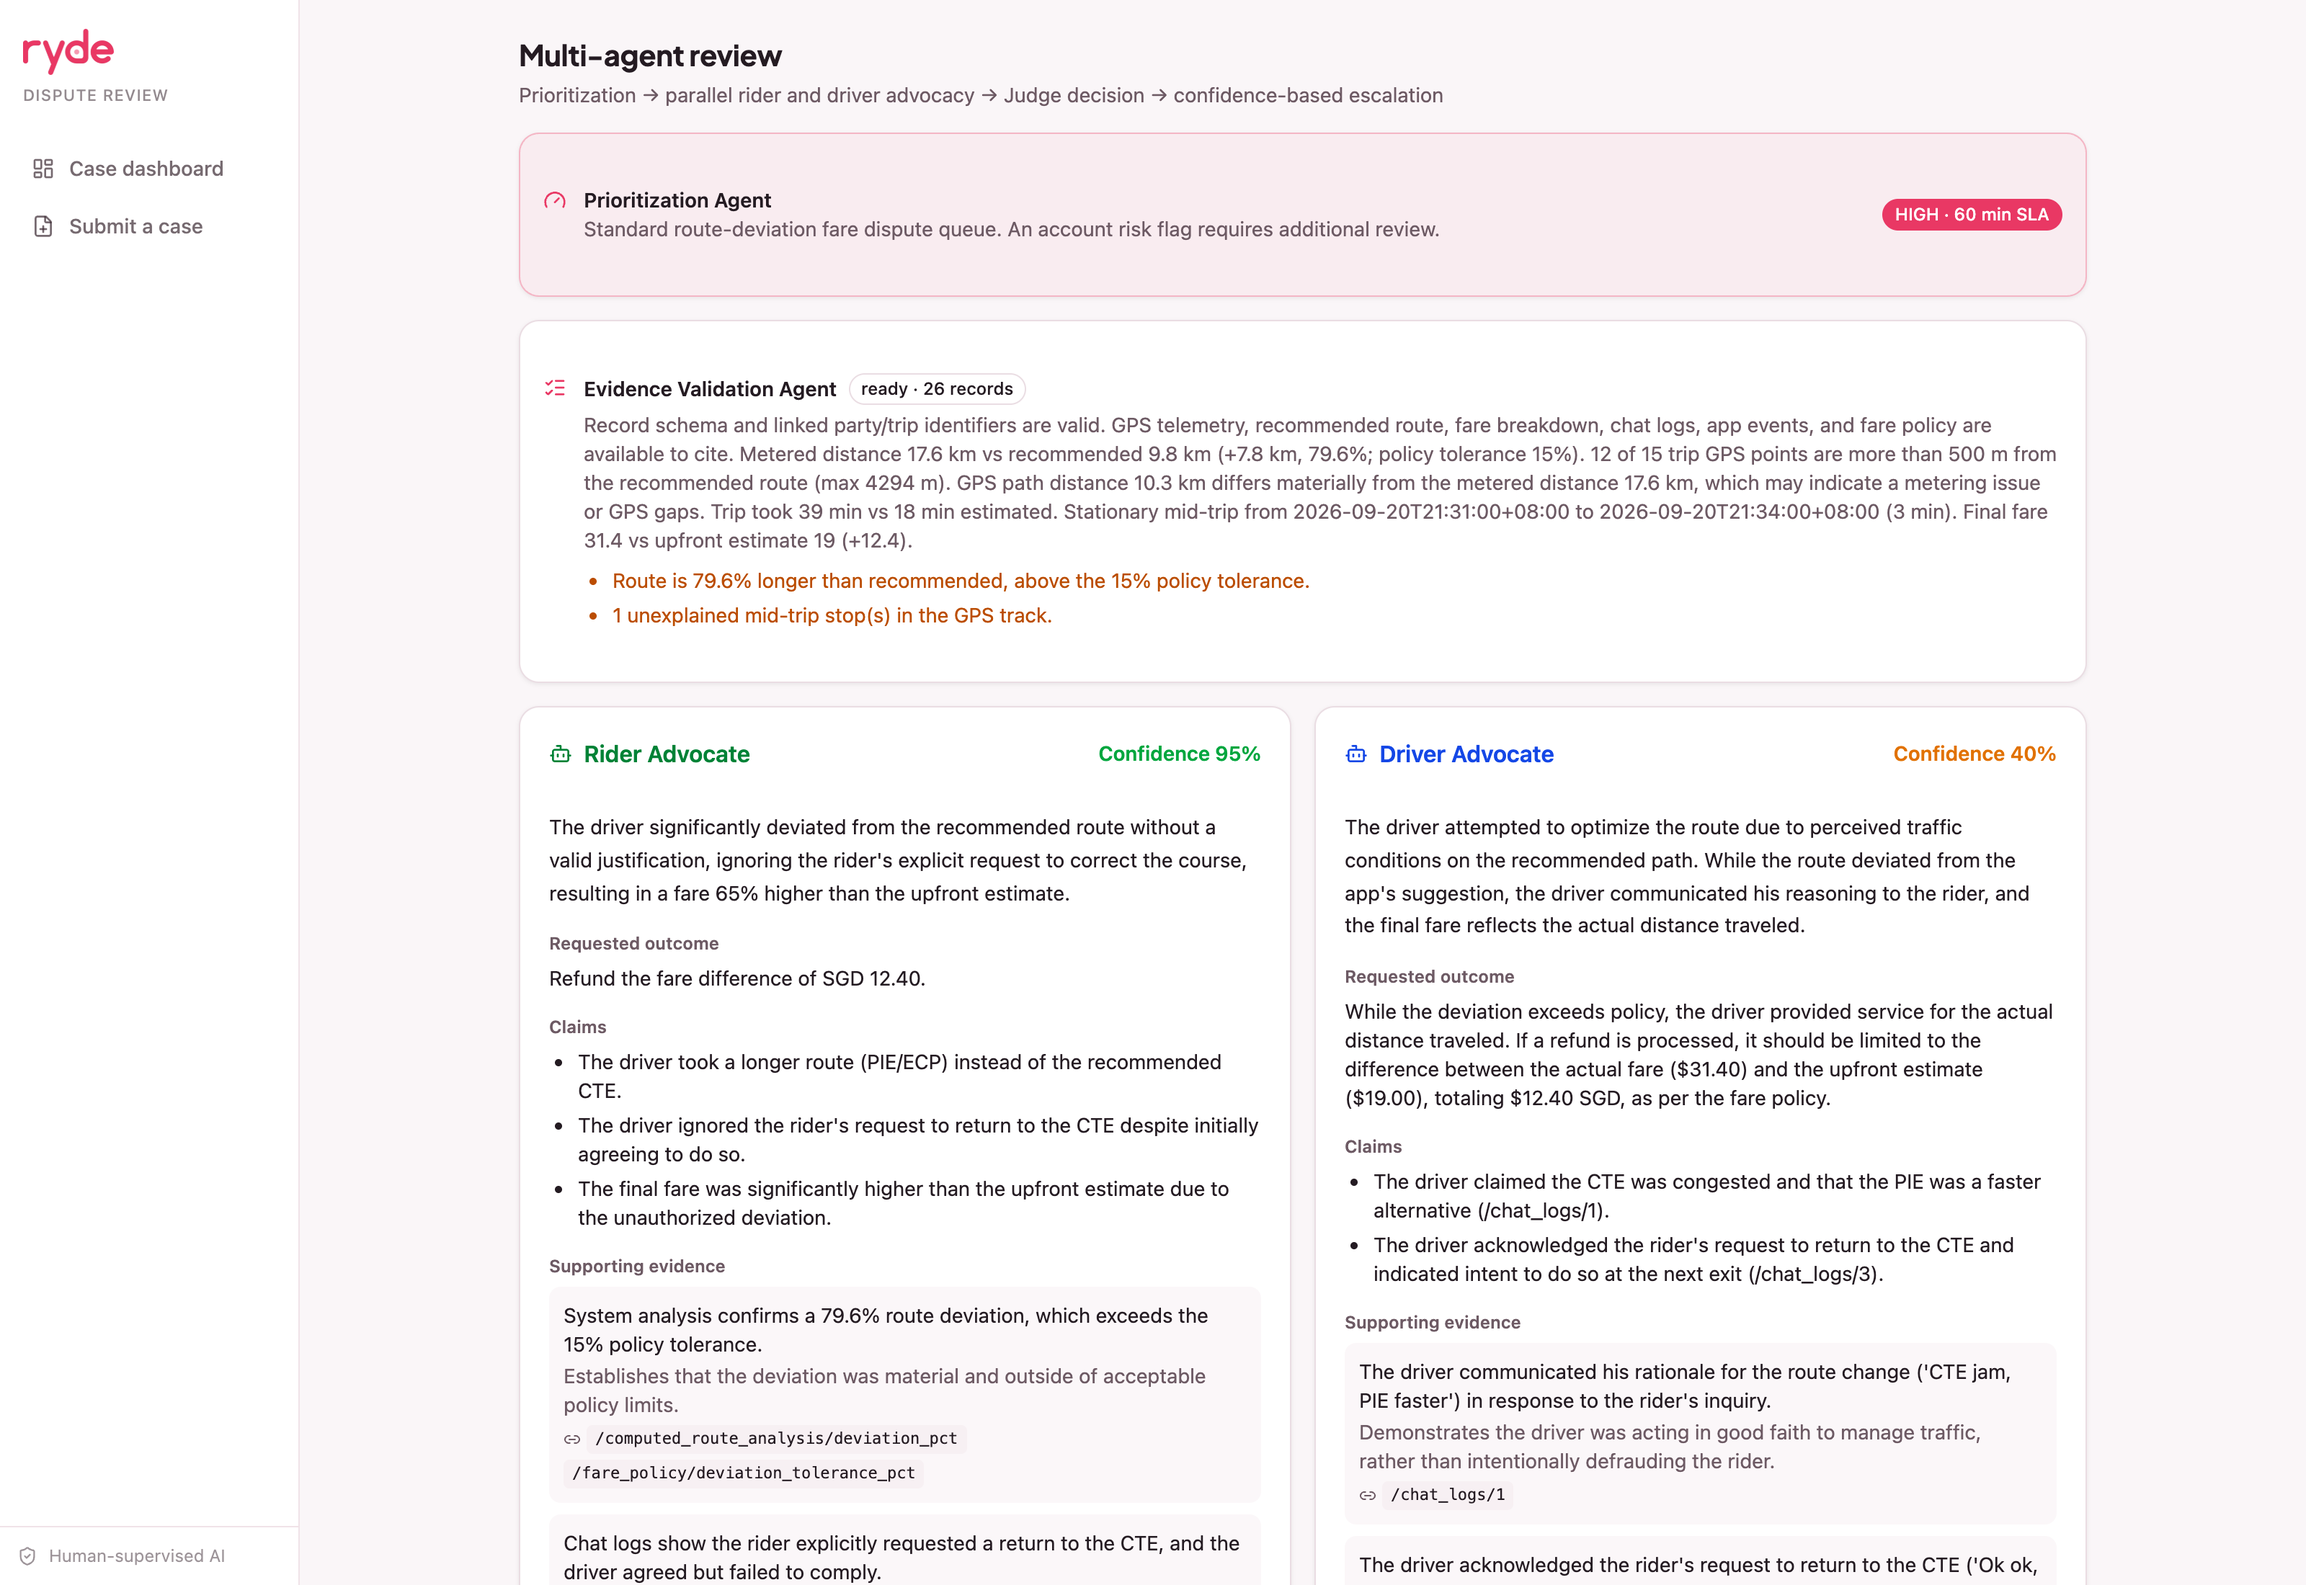
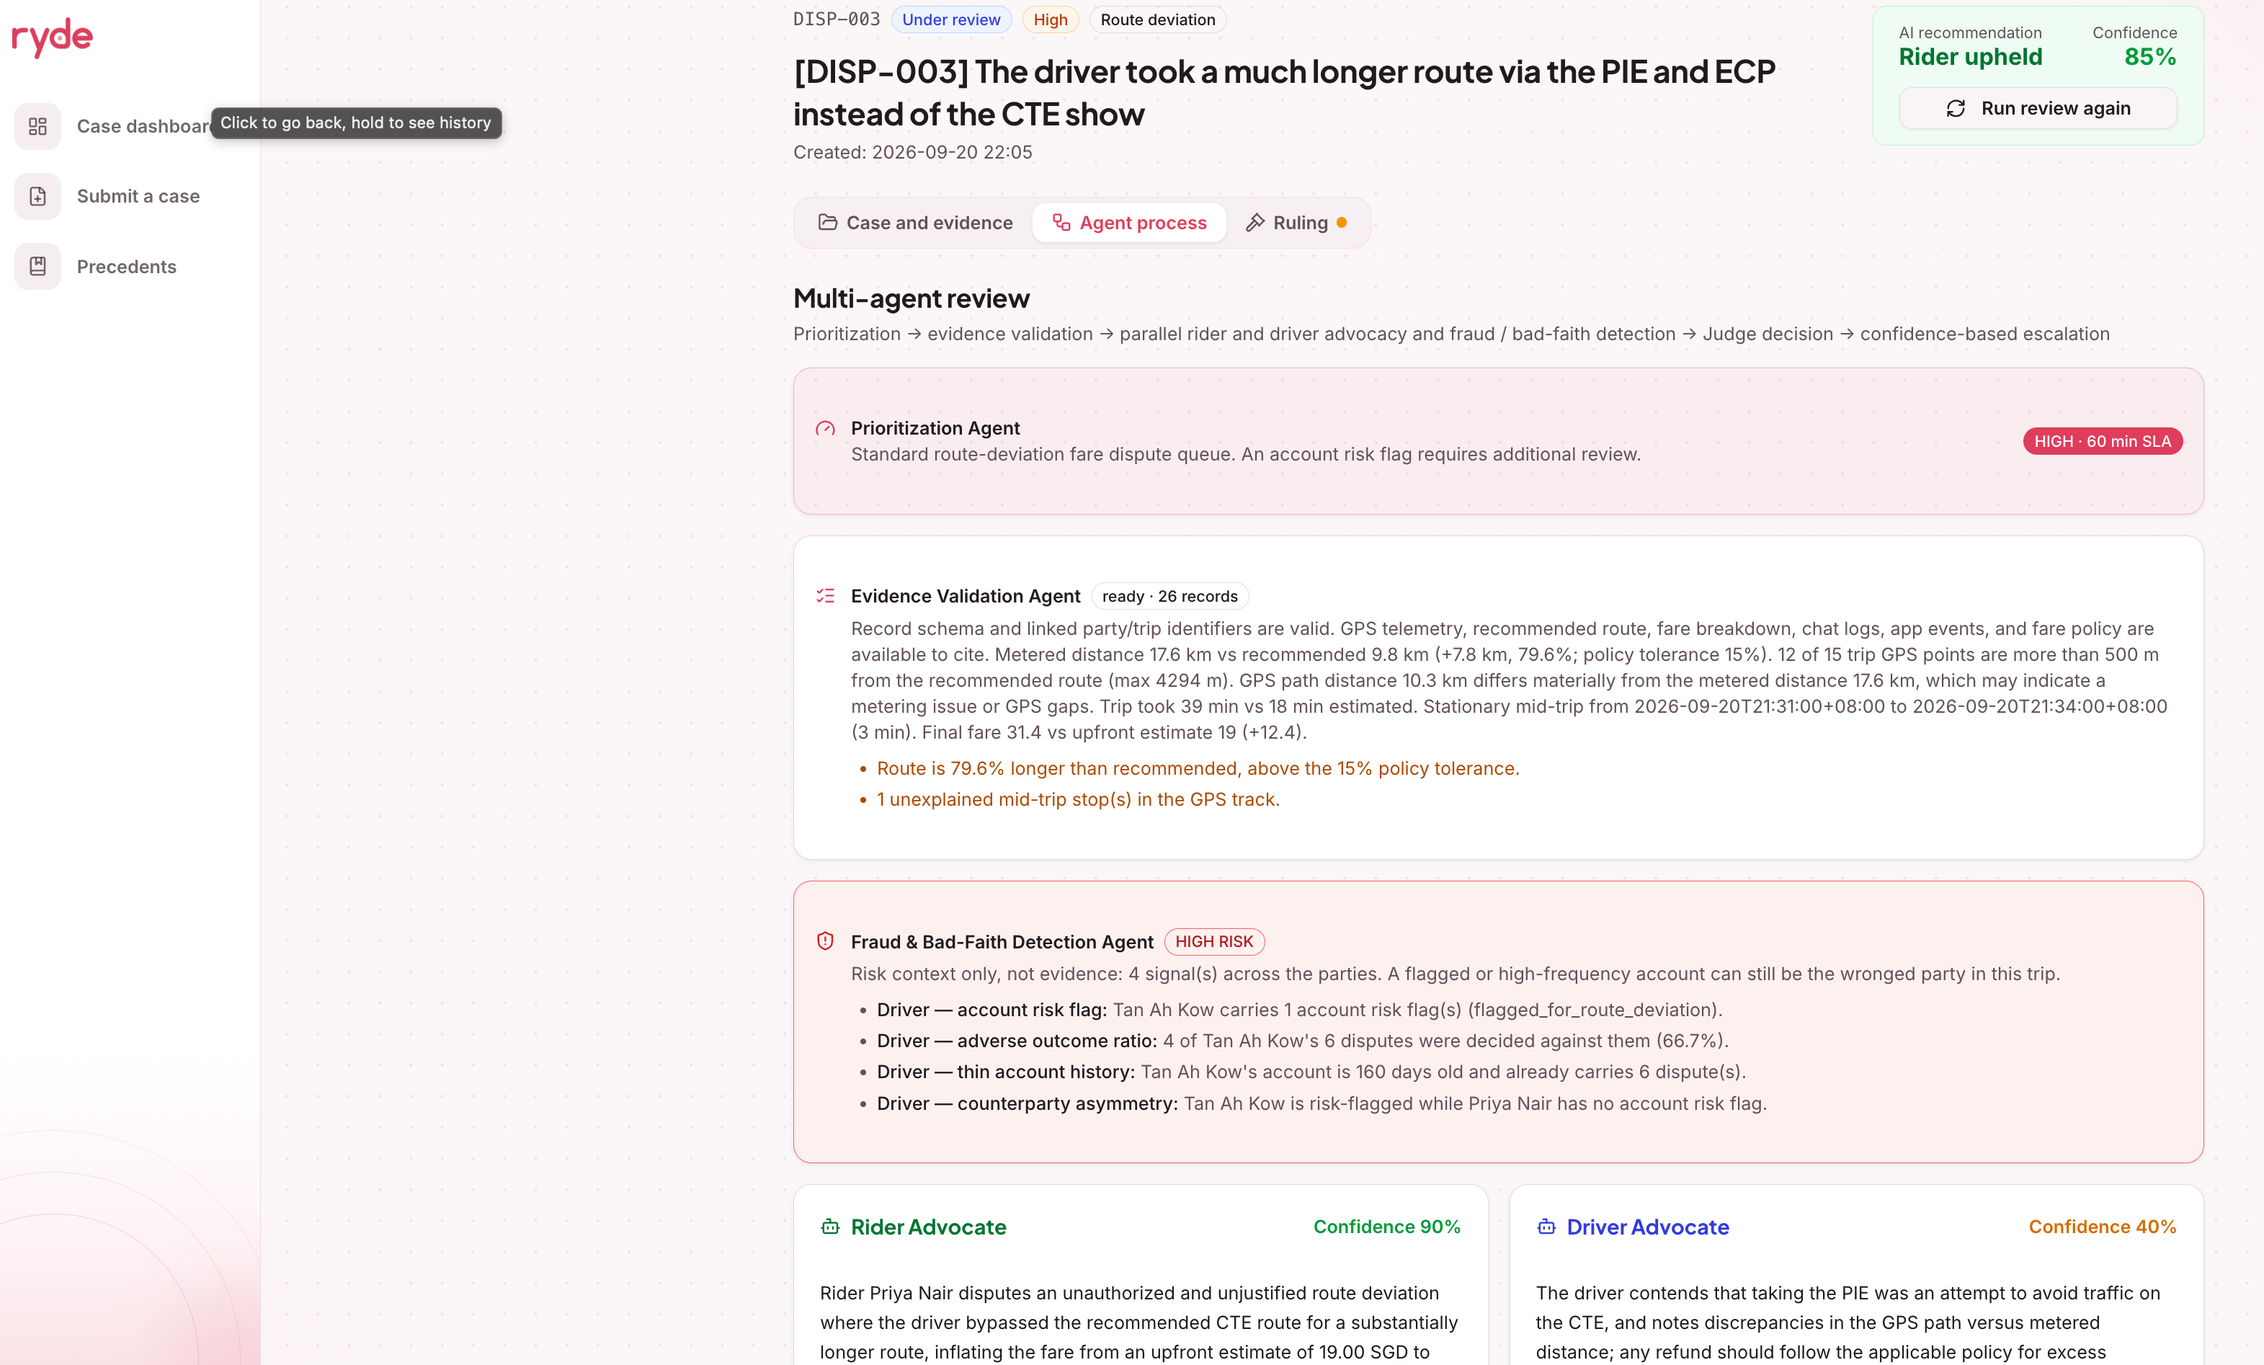
Proof: WorkBuddy chat as PNG screenshots; correct the DISP-003 demo
- Export the nine pages of the WorkBuddy conversation capture as
  proof/screenshots/03-workbuddy-chat-page-1..9.png, so the chat
  screenshots requirement (at least 3) is met with images
- Retake the DISP-003 screenshots under Policy v2.1 (escalated, refund
  held as a draft)
- SUBMISSION.md: Demo 1 uses the screenshot run (85%, S$6.66 excess-
  distance fare, as Policy v2.1 requires) and notes a run that applied
  the dataset's older refund rule; credit WorkBuddy with building the
  first version of the app; fix the PDF path

diff --git a/report/SUBMISSION.md b/report/SUBMISSION.md
@@ -257,15 +257,15 @@ All claims below are supported by the repository or handbook. No results are inv
 
 5. **Fraud & Bad-Faith Detection Agent** — Rates the driver's risk **high** (account risk flag, a high share of past disputes decided against the driver, a short account history with several disputes, and only the driver is risk-flagged). The Judge receives these as context only.
 
-6. **Judge (LLM)** — Both advocates produced validated LLM output, so the Judge runs. In our test run on 15 October 2026 it answered the route-deviation checklist:
+6. **Judge (LLM)** — Both advocates produced validated LLM output, so the Judge runs. In the run shown in screenshots `04`–`06` (15 October 2026) it answered the route-deviation checklist:
    - C1: Actual vs. recommended route — 17.6 km vs 9.8 km, 7.8 km excess.
    - C2: Whether traffic or a road closure justifies the deviation — app events record no traffic incident on the CTE (**conflict** with the driver's claim).
    - C3: Whether the driver told the rider before or at the deviation — no; the rider raised it.
    - C4: The 1 km refund tolerance and the 2 km human-review threshold — 7.8 km exceeds both.
-   - C5: Refundable excess-distance fare — S$31.40 charged vs S$19.00 binding upfront estimate.
+   - C5: Refundable excess-distance fare — Policy v2.1 refunds the fare for the excess distance, not the whole difference from the S$19.00 estimate.
    - C6–C7: Statement-vs-record conflicts (the driver's traffic claim vs. platform logs — **conflict**) and timestamp conflicts (none).
 
-   The Judge ruled for the rider at **95% confidence** with a **partial refund of S$12.40** (S$31.40 − S$19.00), within the disputed charge. Party notices are generated for both rider and driver in plain language.
+   The Judge upheld the rider at **85% confidence** with a **partial refund of S$6.66**: the excess-distance fare under Policy v2.1 (7.8 km excess ÷ 17.6 km metered × S$15.04 distance fare), within the disputed charge. Party notices are generated for both rider and driver in plain language. In another run the same day the Judge instead refunded the full S$12.40 difference from the upfront estimate, following the dataset's older fare policy rather than Policy v2.1; the reviewer sees the calculation in the resolution and can correct it.
 
 7. **Escalation Agent** — The 7.8 km deviation exceeds Policy v2.1's 2 km human-review threshold, so the case is **escalated to a human reviewer** however confident the Judge is (`workflowStatus = human_intervention_required`, `status = under_review`). The party notices are held as drafts until the reviewer decides.
 
@@ -321,7 +321,9 @@ The running system uses **Google Gemini** (free tier: `gemini-3.8-flash` → `ge
 
 ### WorkBuddy / CodeBuddy usage
 
-Per our WorkBuddy session plan, WorkBuddy/CodeBuddy was used for:
+The project started in **WorkBuddy**: asked to set up an agent that reviews driver–passenger disputes, WorkBuddy AI built the first version of the app (dispute dashboard, case submission form, AI review, case detail page; React 19, Express, Zod, TanStack Query and shadcn/ui) on Tencent Cloud Studio. That conversation is in the WorkBuddy page capture listed below, and the generated app is the starting point of the repository.
+
+Per our WorkBuddy session plan, WorkBuddy/CodeBuddy was then used for:
 
 1. **Code review** of the agent code (route-analysis.ts, judge.ts, dataset.ts) and frontend (AgentReview.tsx) — checking for bugs, edge cases, and running backend tests. This resulted in commit `7997e7e` ("Handle edge cases in dispute agents and store from CodeBuddy review"), which refined route-analysis, judge and dataset handling, hardened store logic, surfaced additional review details in the frontend, updated docs, and added the WorkBuddy session proof.
 2. **Localization** — rewriting seed cases from Chinese/Didi to English/Singapore Ryde cases with SGD fares, and translating `docs/product/features.md` to English.
@@ -331,8 +333,9 @@ Per our WorkBuddy session plan, WorkBuddy/CodeBuddy was used for:
 6. **Stretch goal** — adding the Fraud & Bad-Faith Detection agent (commit `5a17a53`).
 
 Proof of usage is collected in `proof/`:
-- `screenshots/screencapture-workbuddy-ai-app-task-2100073428441546752-2026-10-14-10_57_47.pdf` — screenshot of a WorkBuddy session
+- `screencapture-workbuddy-ai-app-task-2100073428441546752-2026-10-14-10_57_47.pdf` — 9-page capture of the WorkBuddy conversation that built the first version of the app
 - `screenshots/01-codebuddy-write-report.png`, `screenshots/02-codebuddy-fix-report.png` — CodeBuddy sessions
+- `screenshots/03-workbuddy-chat-page-1.png` to `-9.png` — the WorkBuddy conversation above, one image per page (it shows WorkBuddy building the app and deploying it to Cloud Studio)
 - `Review the recent changes in dispute-review-agent_backend_src_modules_dispute_ag_20261014115706.json` — exported chat history of the code review session
 
 ### Git history highlights
@@ -425,7 +428,7 @@ Items marked **TO ADD** depend on teammates or on final screenshots and are inte
 | Source code | Done | GitHub repository, `main` branch |
 | Which tool wrote the core agents | Done: WorkBuddy and CodeBuddy, assisted by GPT, Gemini, Codex and Claude (as stated by the team) | Section 7 |
 | CodeBuddy / WorkBuddy conversation history | Done: exported CodeBuddy chat (code-review session) | `proof/Review the recent changes in …json` |
-| At least 3 chat screenshots from CodeBuddy / WorkBuddy | Done: two CodeBuddy screenshots and one WorkBuddy page capture (PDF) | `proof/screenshots/` |
-| Application screenshots | Done, but taken before Policy v2.1 and the fraud agent (DISP-003 then resolved automatically; it now goes to a human): DISP-003 (S$12.40 refund) and DISP-002 (no-show) each as case overview, rider-vs-driver advocates, and resolution with party messages; the human-decision form; the dashboard (review queue, and sorted by priority); the submit page | `proof/screenshots/04-…` to `13-…` |
+| At least 3 chat screenshots from CodeBuddy / WorkBuddy | Done: 11 screenshots — two CodeBuddy chats and nine pages of the WorkBuddy conversation (also as one PDF) | `proof/screenshots/01-…` to `03-…`; `proof/screencapture-workbuddy-…pdf` |
+| Application screenshots | Done: DISP-003 (escalated to a human, S$6.66 refund held as a draft; retaken on 15 October 2026 under Policy v2.1) and DISP-002 (no-show; taken before Policy v2.1) each as case overview, rider-vs-driver advocates, and resolution with party messages; the human-decision form; the dashboard (review queue, and sorted by priority); the submit page | `proof/screenshots/04-…` to `13-…` |
 | Demo video, 5–8 minutes (optional) | **TO ADD** | — |
 | Live project link (optional, earns bonus points) | **TO ADD** | — |
